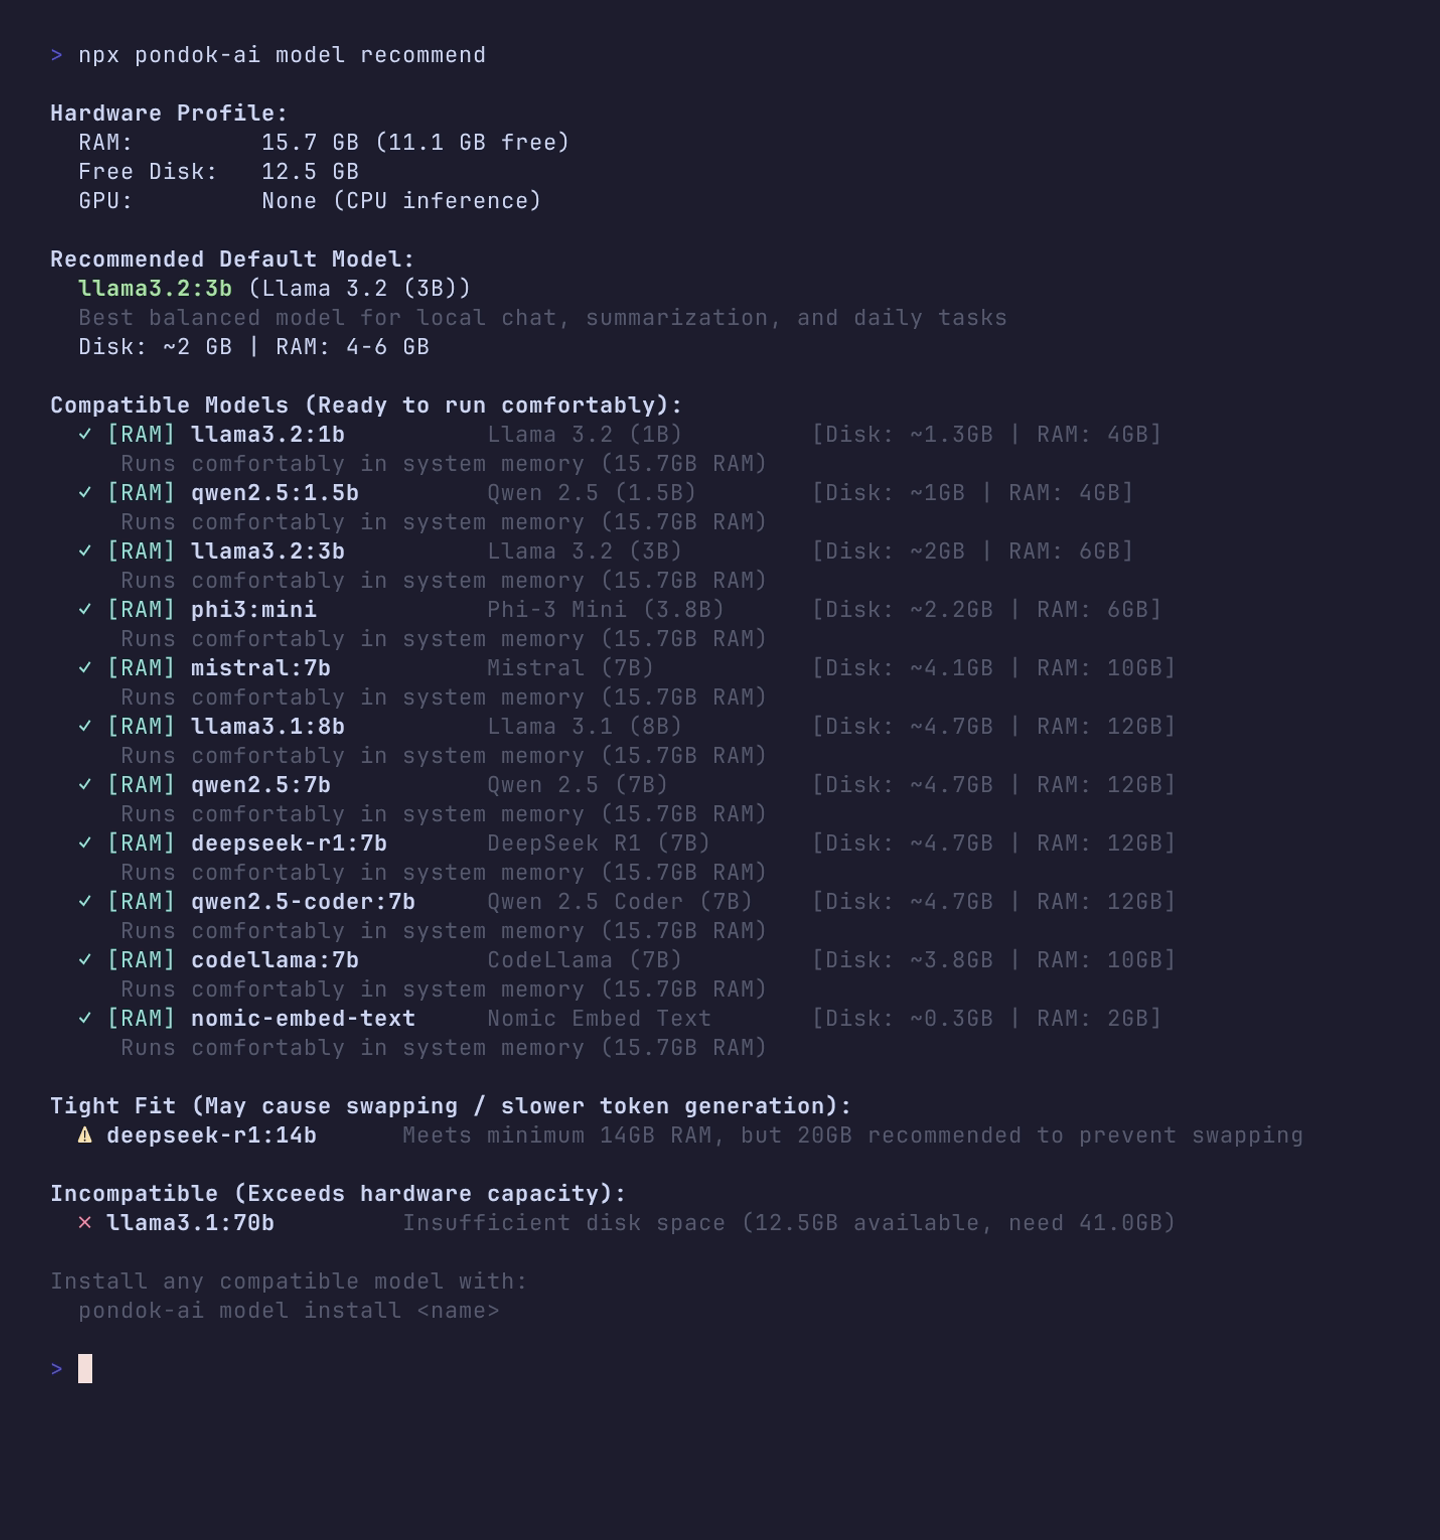
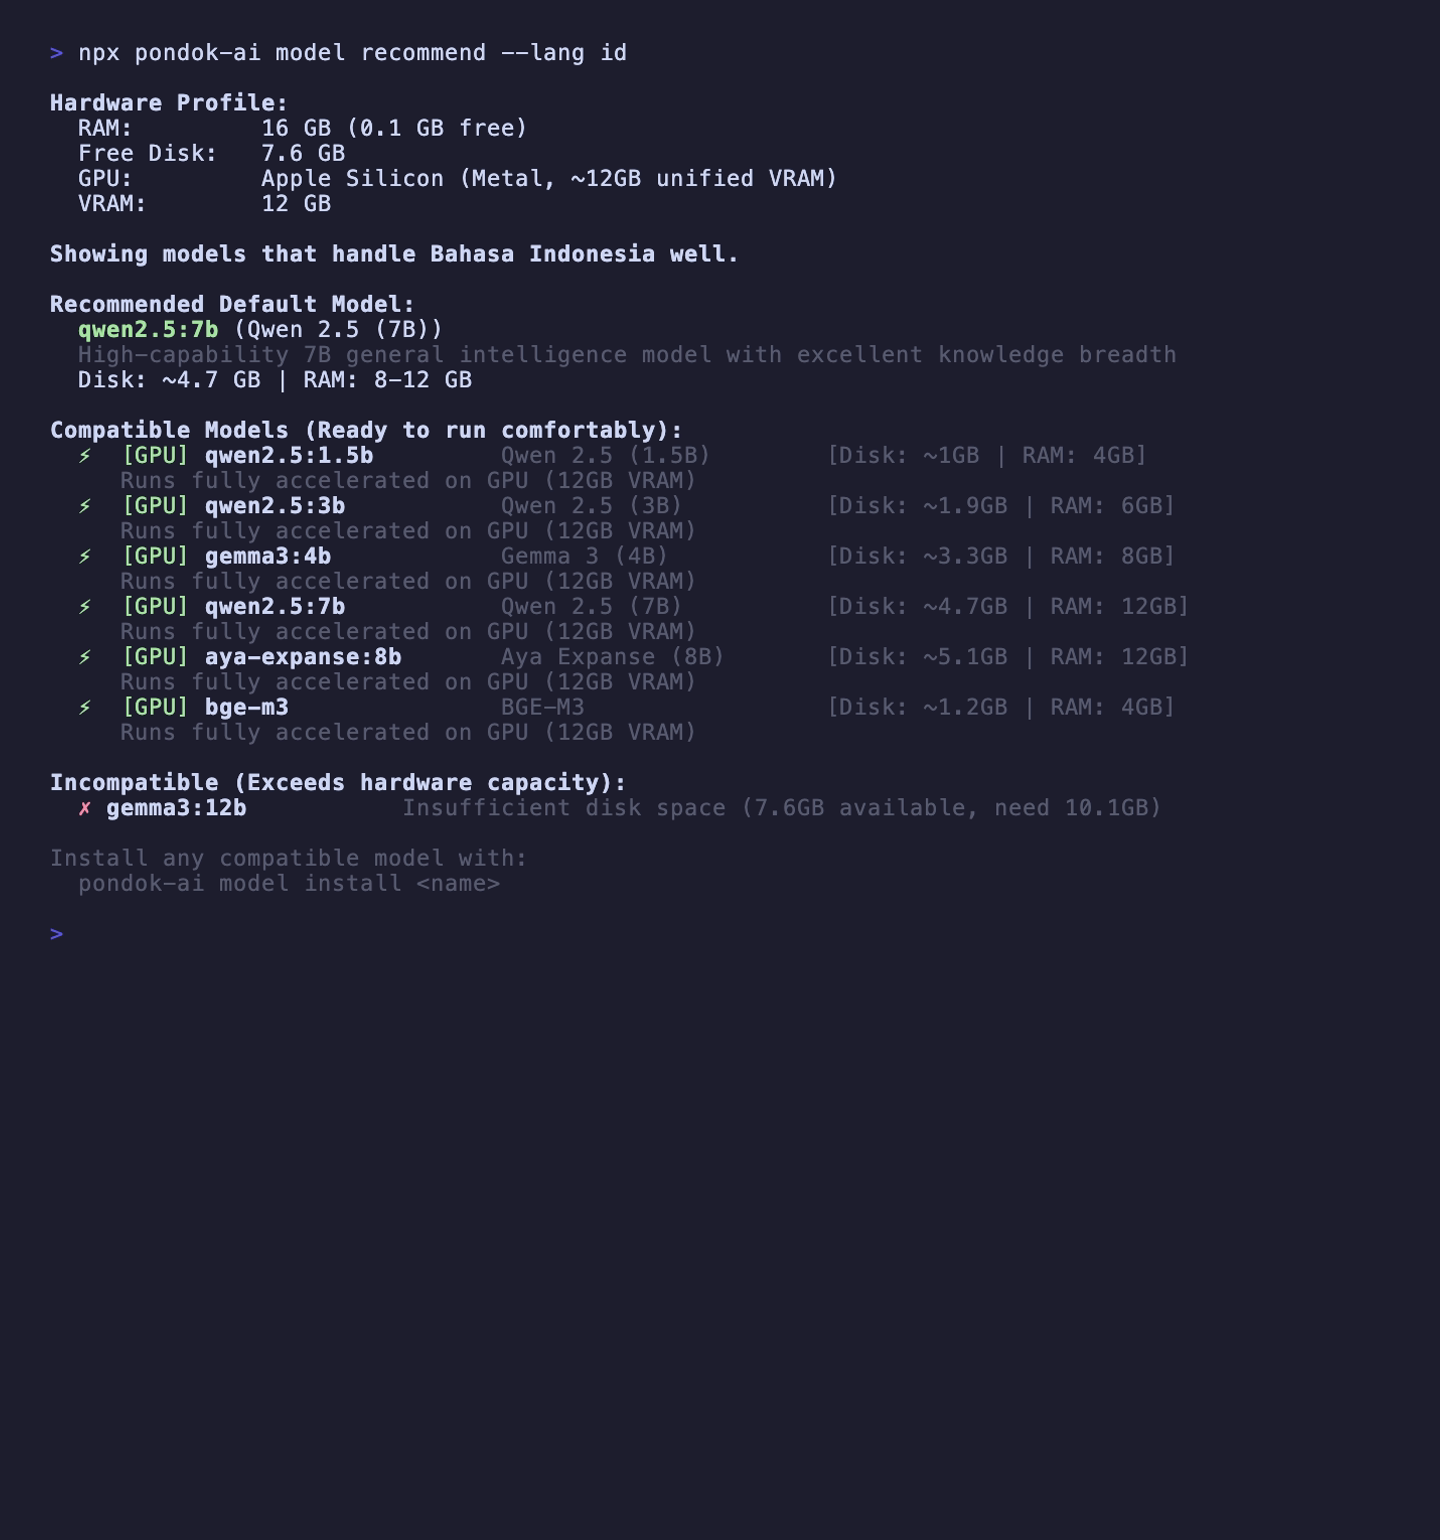
docs(demo): re-capture the doctor and model recommend screenshots on the Mac
* docs(demo): note that all screenshots come from the Mac

* docs(demo): re-capture the doctor and model recommend screenshots on the Mac

diff --git a/docs/demo/RECORDING.md b/docs/demo/RECORDING.md
@@ -5,8 +5,8 @@ The demo at the top of the README shows the whole first-run path in about 30 sec
 It is built from two 1080p clips, a scripted terminal clip and a scripted browser clip, stitched with ffmpeg into
 `docs/demo/demo.mp4` (1920×1080, the sharp version) and `docs/demo/demo.gif` (1920px, the inline preview).
 The committed take was recorded on an Apple M1 MacBook Pro (16 GB) with Docker Desktop and a native Ollama
-(Metal GPU), using `gemma3:1b`. `chat.png` and `doctor.png` come from the same setup; `model-recommend.png` is from
-an earlier take on a Linux machine without a GPU.
+(Metal GPU), using `gemma3:1b`. `chat.png`, `doctor.png`, and `model-recommend.png` (`--lang id`) come from the same
+setup.
 
 ## Storyboard (target 30s)
 
